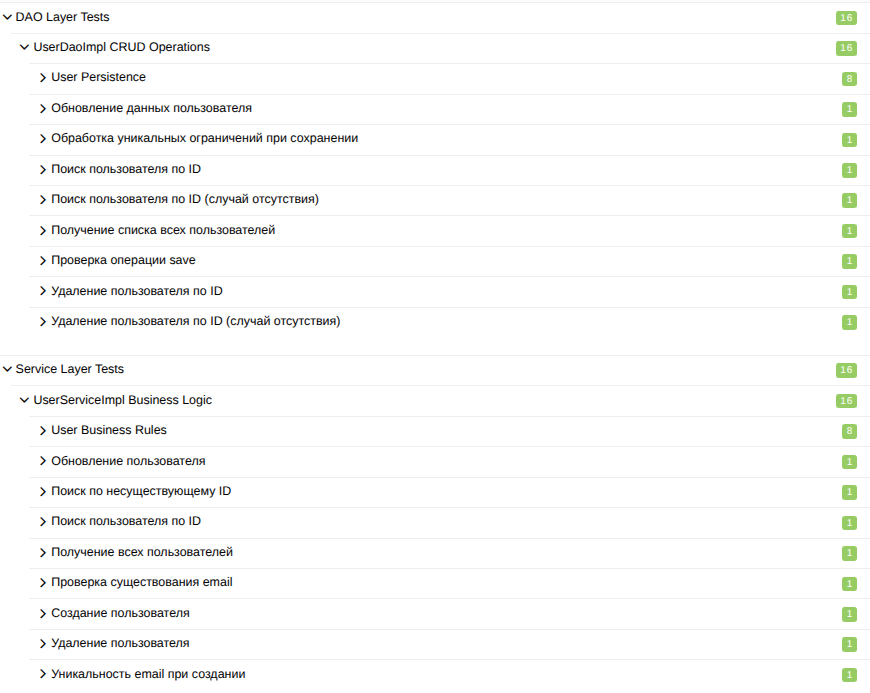
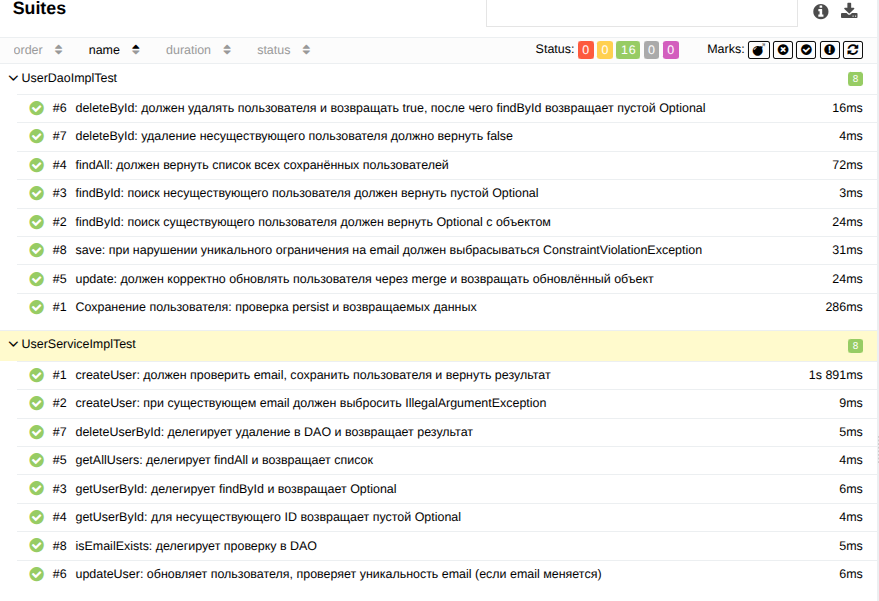
correct allure report

Changed region(s): [[0.0, 0.0, 1.0, 0.9884], [0.5897, 0.0599, 0.7759, 0.1198], [0.0, 0.0, 0.1241, 0.03]]

diff --git a/src/test/java/UserDaoImplTest.java b/src/test/java/UserDaoImplTest.java
@@ -13,7 +13,6 @@ import java.util.Optional;
 
 @Epic("DAO Layer Tests")
 @Feature("UserDaoImpl CRUD Operations")
-@Story("User Persistence")
 class UserDaoImplTest extends BaseIntegrationTest {
 
     private final UserDao userDao = new UserDaoImpl();

diff --git a/src/test/java/UserServiceImplTest.java b/src/test/java/UserServiceImplTest.java
@@ -22,7 +22,6 @@ import static org.mockito.Mockito.*;
 
 @Epic("Service Layer Tests")
 @Feature("UserServiceImpl Business Logic")
-@Story("User Business Rules")
 @ExtendWith(MockitoExtension.class)
 
 public class UserServiceImplTest extends BaseTest{